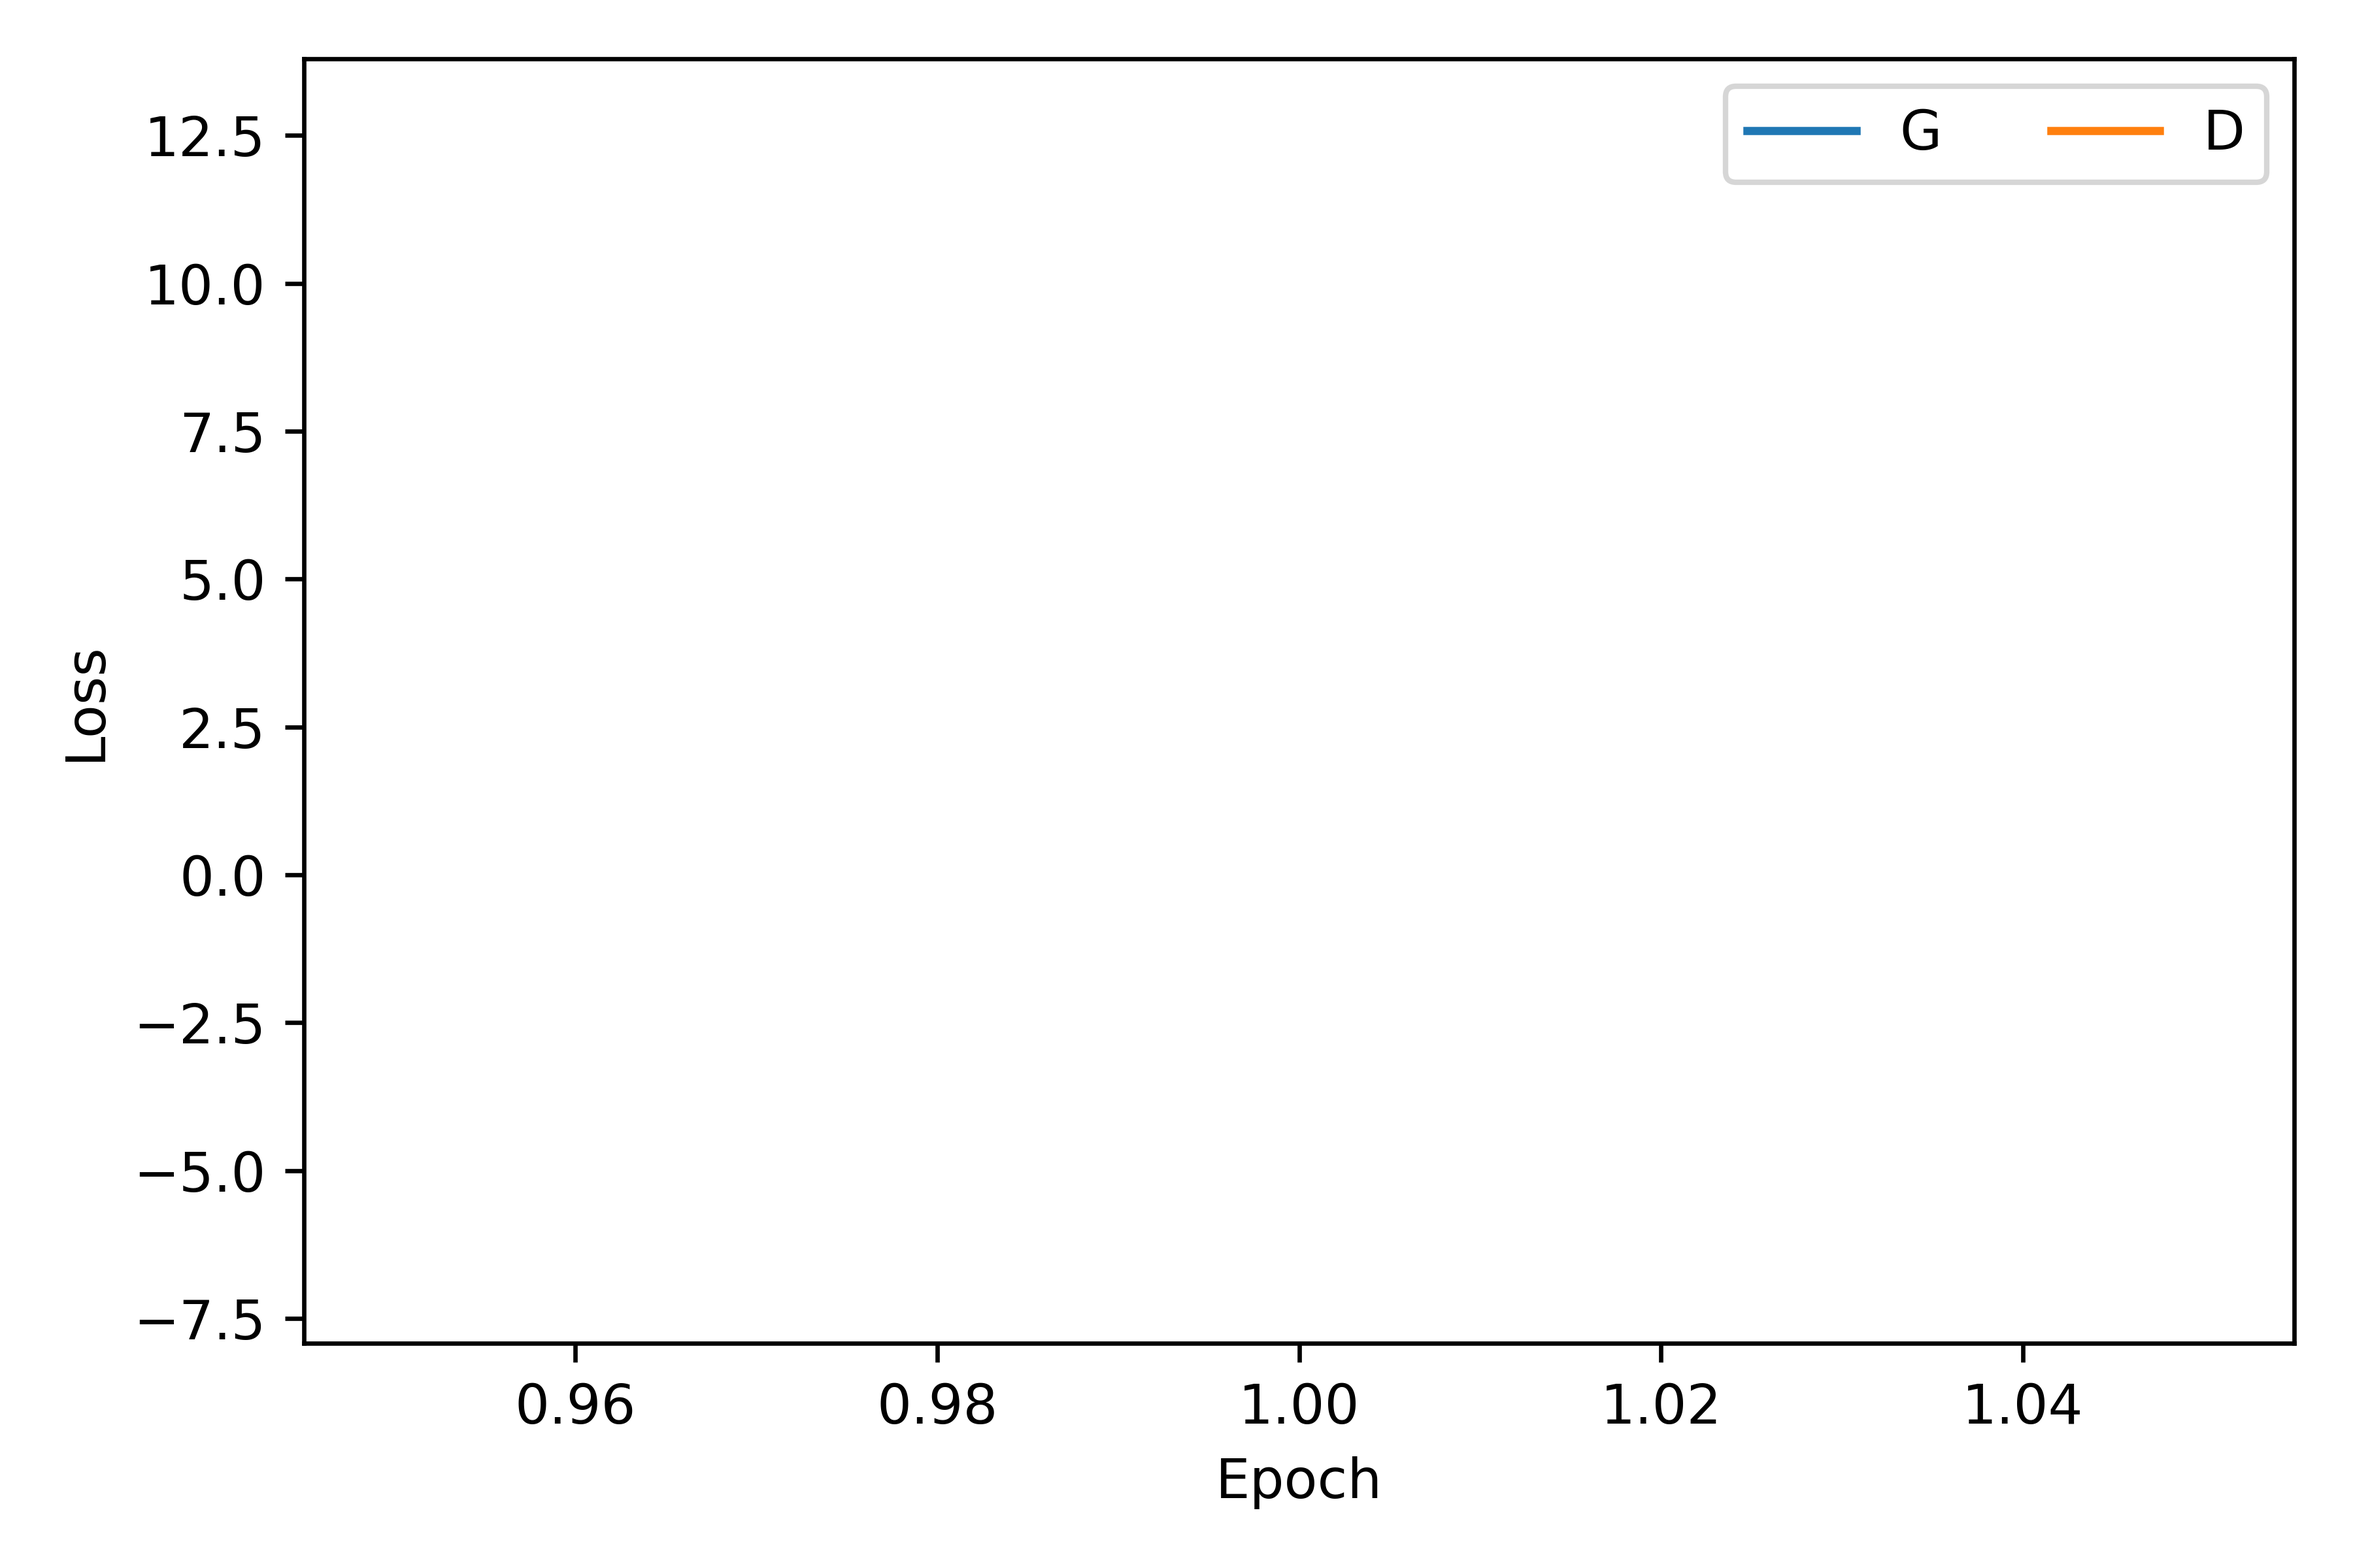
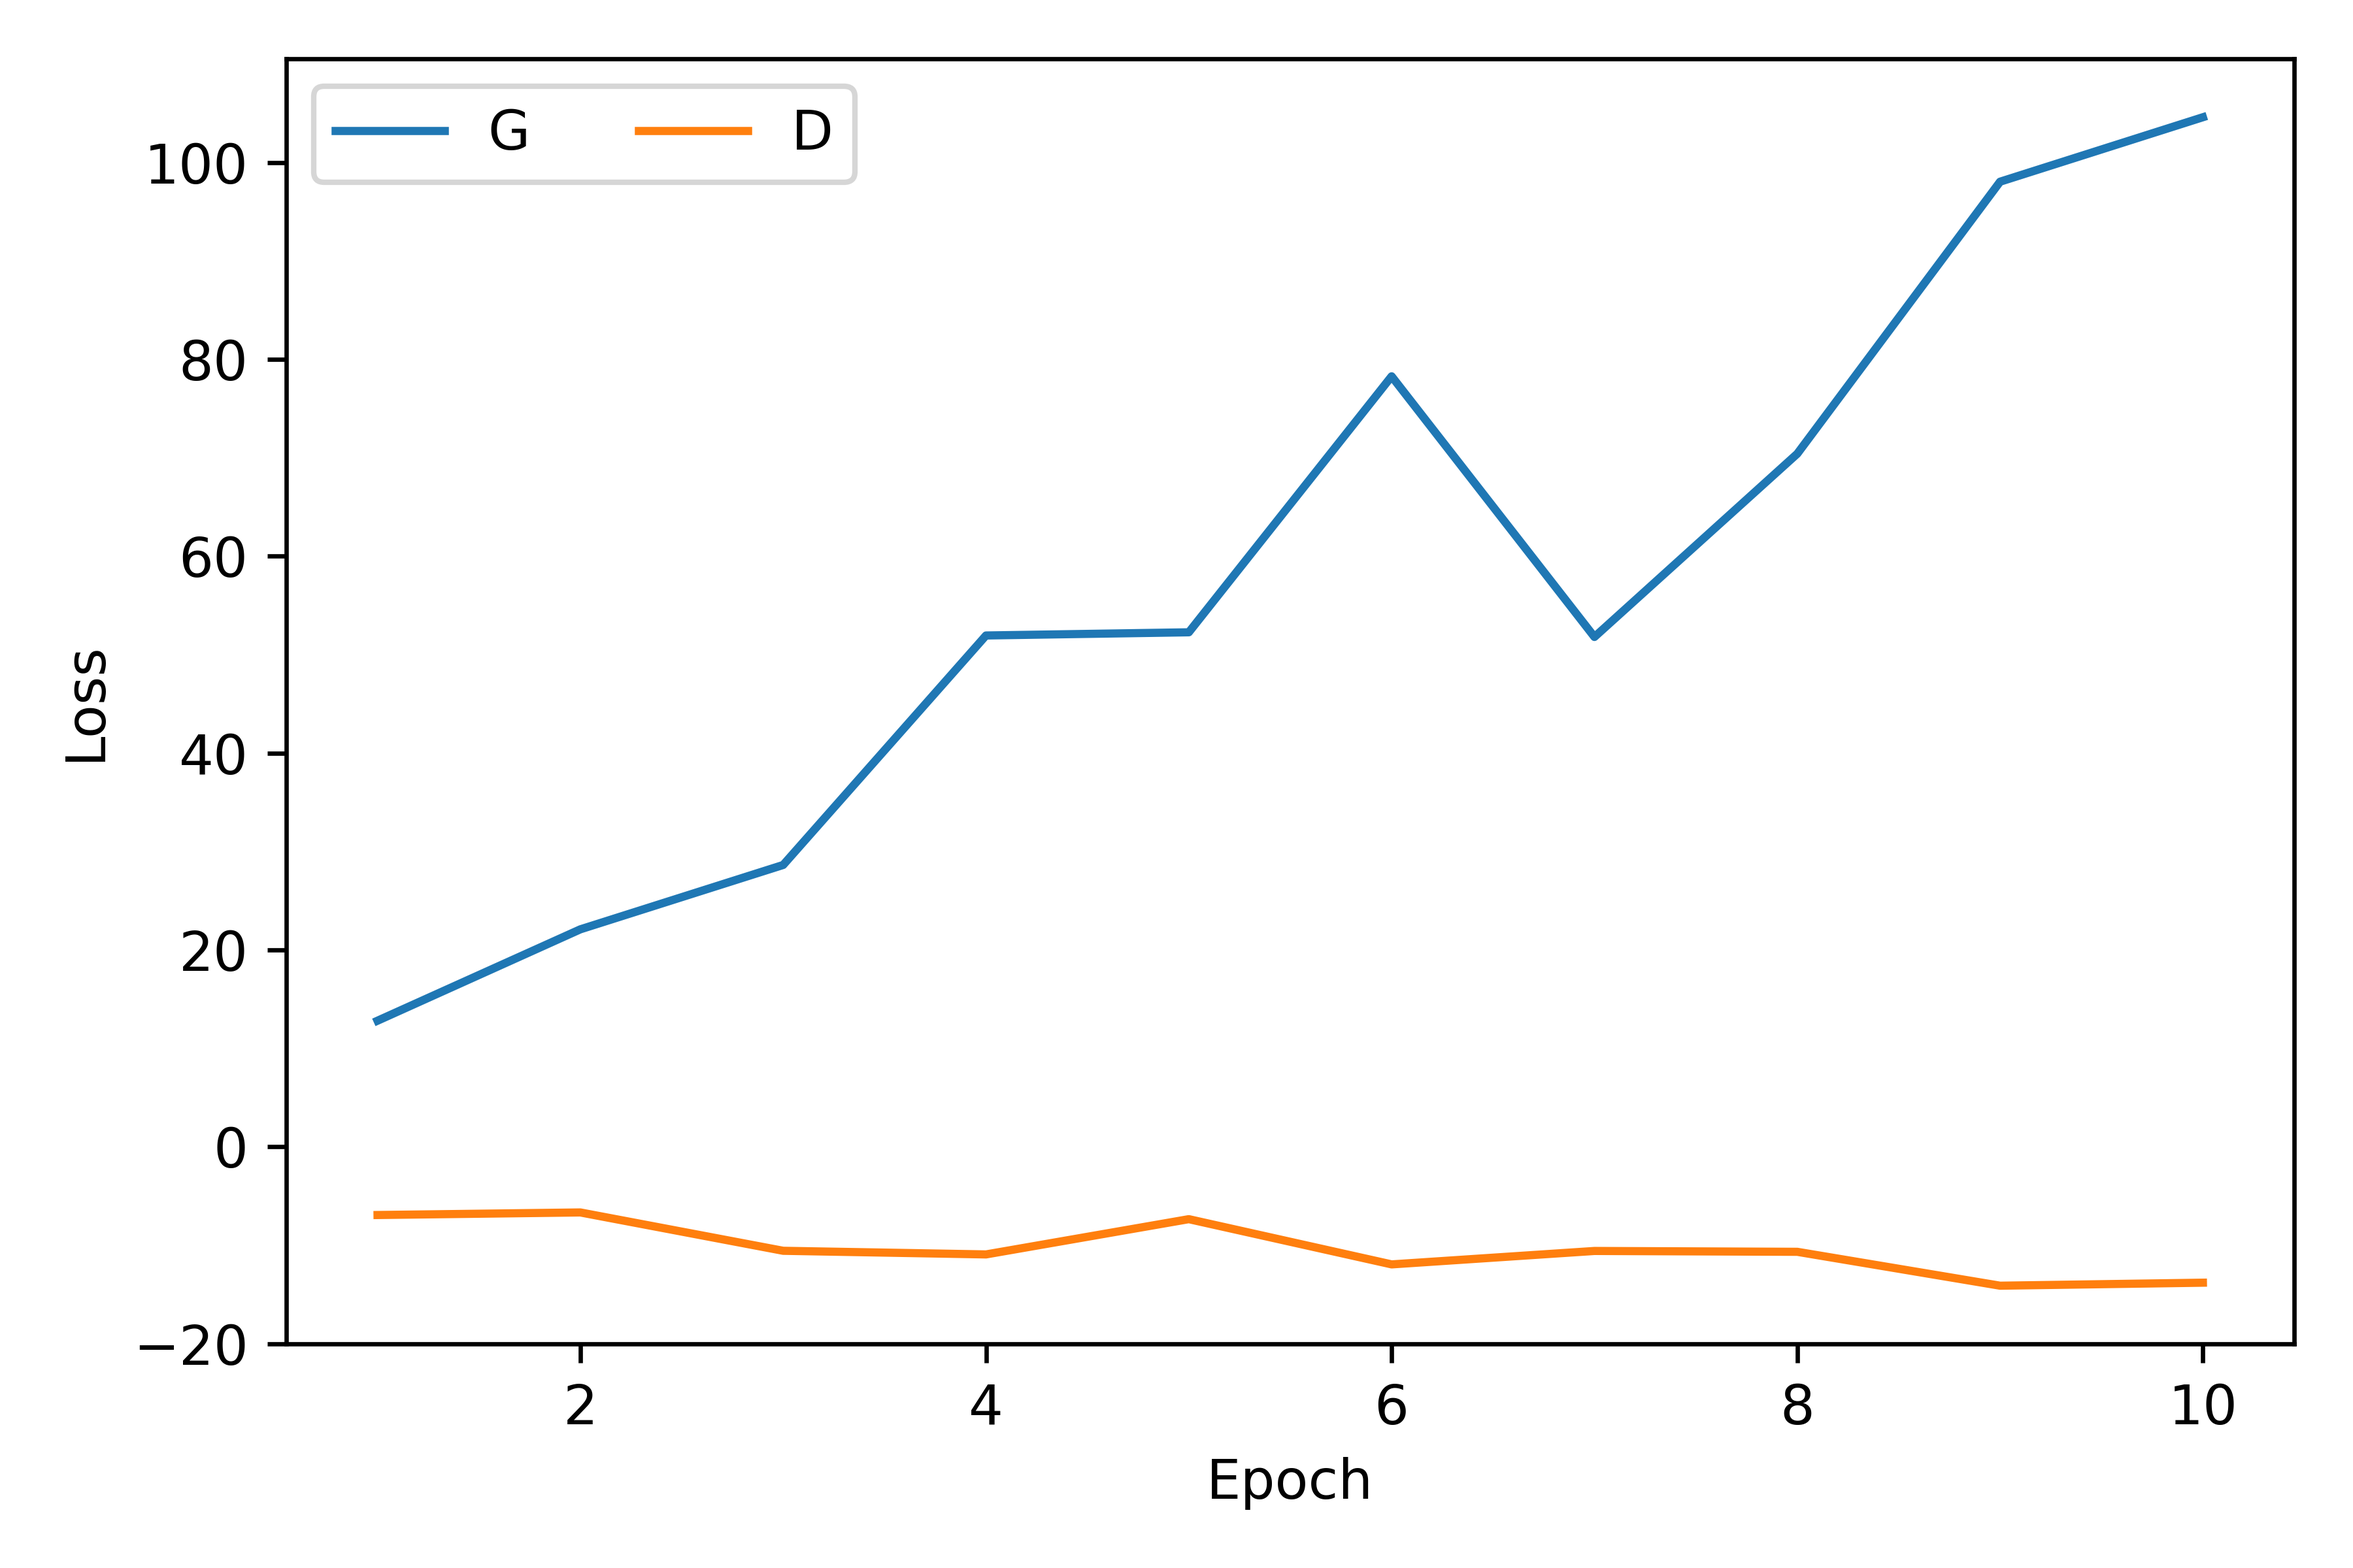
Made generator network single output. Allow checkpoints mid-epoch.

diff --git a/main.py b/main.py
@@ -83,7 +83,7 @@ def dashboard(width, height, n_last_epochs=None):
         )
 
 
-def plot_images(epoch_sample, name, epoch):
+def plot_images(epoch_sample, epoch):
     image_batch = (epoch_sample.numpy() + 1) / 2
     fig = plt.figure(figsize=(n_cols, n_rows), dpi=300)
     for i in range(n_rows * n_cols):
@@ -93,8 +93,7 @@ def plot_images(epoch_sample, name, epoch):
         ax.imshow(image_batch[i])
 
     plt.tight_layout()
-    plt.savefig(os.path.join(dataset, "logs", f"generated_faces_{name}-{epoch:03d}.png"))
-    plt.savefig(os.path.join(dataset, "logs", f"generated_faces_{name}_latest.png"))
+    plt.savefig(os.path.join(dataset, "logs", f"generated_faces_{epoch:03d}.png"))
 
 
 def get_time(t):
@@ -108,23 +107,15 @@ def get_time(t):
 
 
 def load_optimizers():
-    g_optimizer = pickle.load(
-        open(os.path.join(dataset, "objects", "g_optimizer.pkl"), "rb")
-    )
-    d_optimizer = pickle.load(
-        open(os.path.join(dataset, "objects", "d_optimizer.pkl"), "rb")
-    )
+    g_optimizer = pickle.load(open(os.path.join(dataset, "objects", "g_optimizer.pkl"), "rb"))
+    d_optimizer = pickle.load(open(os.path.join(dataset, "objects", "d_optimizer.pkl"), "rb"))
 
     return g_optimizer, d_optimizer
 
 
 def load_network():
-    gen_model = tf.keras.models.load_model(
-        os.path.join(dataset, "objects", f"gen_model-{initial_epoch:03d}.h5")
-    )
-    disc_model = tf.keras.models.load_model(
-        os.path.join(dataset, "objects", f"disc_model-{initial_epoch:03d}.h5")
-    )
+    gen_model = tf.keras.models.load_model(os.path.join(dataset, "objects", f"gen_model-{initial_epoch:03d}.h5"))
+    disc_model = tf.keras.models.load_model(os.path.join(dataset, "objects", f"disc_model-{initial_epoch:03d}.h5"))
 
     return gen_model, disc_model
 
@@ -158,16 +149,13 @@ def create_network():
         gen_rgb.append(tf.keras.layers.Conv2DTranspose(filters=CHANNELS, kernel_size=KERNEL_SIZE, padding="same",
                                                        use_bias=False, activation="tanh")(gen_hidden))
 
-    gen_skips = gen_rgb[0]
+    gen_outputs = gen_rgb[0]
 
     for i in range(1, len(gen_rgb)):
-        gen_skips = tf.keras.layers.UpSampling2D(size=2, interpolation='bilinear')(gen_skips)
-        gen_skips = tf.keras.layers.Add()([gen_skips, gen_rgb[i]])
+        gen_outputs = tf.keras.layers.UpSampling2D(size=2, interpolation='bilinear')(gen_outputs)
+        gen_outputs = tf.keras.layers.Add()([gen_outputs, gen_rgb[i]])
 
-    gen_skips = tf.math.divide(gen_skips, len(gen_rgb))
-
-    gen_outputs = [gen_skips]
-    gen_outputs.extend(gen_rgb)
+    gen_outputs = tf.math.divide(gen_outputs, len(gen_rgb))
 
     gen_model = tf.keras.Model(inputs=gen_inputs, outputs=gen_outputs)
 
@@ -230,7 +218,7 @@ image_dict = {
 }
 
 dataset = "celeba"
-initial_epoch = 1
+initial_epoch = 11
 
 CHANNELS = 3
 KERNEL_SIZE = 5
@@ -295,7 +283,7 @@ for epoch in range(initial_epoch + 1, final_epoch + 1):
     for i, (input_z, input_real) in enumerate(ds):
 
         with tf.GradientTape() as d_tape, tf.GradientTape() as g_tape:
-            g_output = gen_model(input_z, training=True)[0]
+            g_output = gen_model(input_z, training=True)
 
             d_critics_real = disc_model(input_real, training=True)
             d_critics_fake = disc_model(g_output, training=True)
@@ -332,14 +320,15 @@ for epoch in range(initial_epoch + 1, final_epoch + 1):
         epoch_loss["D-GP"].append(d_loss_gp.numpy())
 
         if time.time() - last_status > STATUS_FREQUENCY:
+            gen_model.save(os.path.join(dataset, "objects", f"gen_model-{epoch:03d}.h5"))
+            disc_model.save(os.path.join(dataset, "objects", f"disc_model-{epoch:03d}.h5"))
+            pickle.dump(g_optimizer, open(os.path.join(dataset, "objects", "g_optimizer.pkl"), "wb"))
+            pickle.dump(d_optimizer, open(os.path.join(dataset, "objects", "d_optimizer.pkl"), "wb"))
             session_epochs = i / n_batches + epoch - initial_epoch - 1
             session_hours = (time.time() - start_time) / 3600
             epochs_per_hour = session_epochs / session_hours
             last_status = time.time()
-            print(
-                f"Epoch: {epoch} | Batch: {i:4d}/{n_batches} | Epochs per hour: {epochs_per_hour:.2f} | "
-                f"Minutes per epoch: {60 / max(epochs_per_hour, 0.001):.0f}"
-            )
+            print(f"Epoch: {epoch} | Batch: {i:4d}/{n_batches} | Epochs per hour: {epochs_per_hour:.2f}")
 
     dict_loss["Loss (G)"].append(np.mean(np.array(epoch_loss["G"])))
     dict_loss["Loss (D)"].append(np.mean(np.array(epoch_loss["D"])))
@@ -350,7 +339,6 @@ for epoch in range(initial_epoch + 1, final_epoch + 1):
 
     gen_model.save(os.path.join(dataset, "objects", f"gen_model-{epoch:03d}.h5"))
     disc_model.save(os.path.join(dataset, "objects", f"disc_model-{epoch:03d}.h5"))
-
     pickle.dump(g_optimizer, open(os.path.join(dataset, "objects", "g_optimizer.pkl"), "wb"))
     pickle.dump(d_optimizer, open(os.path.join(dataset, "objects", "d_optimizer.pkl"), "wb"))
 
@@ -375,14 +363,4 @@ for epoch in range(initial_epoch + 1, final_epoch + 1):
 
     learning_curve(6, 4)
     dashboard(20, 4)
-
-    epoch_samples = gen_model(fixed_z, training=False)
-
-    names = ["skips"]
-    dim = 4
-    while dim <= GEN_DIM:
-        names.append(f"{dim:03d}")
-        dim *= 2
-
-    for epoch_sample, name in zip(epoch_samples, names):
-        plot_images(epoch_sample, name, epoch)
+    plot_images(gen_model(fixed_z), epoch)
